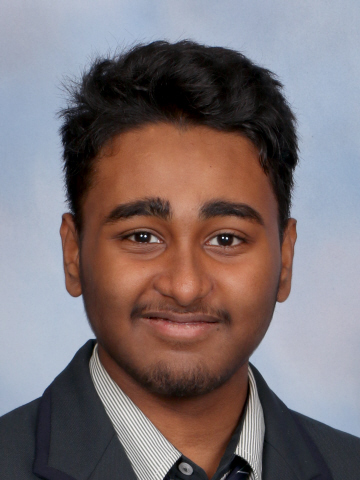
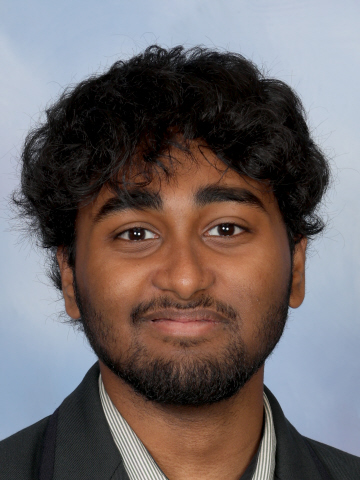
updated info and new project

diff --git a/index.html b/index.html
@@ -52,12 +52,13 @@
                 <div class="info-section">
                     <div class="info-row"><span class="label">Name</span><span class="value">Mahi Mahatab</span></div>
                     <div class="info-row"><span class="label">DOB</span><span class="value">26 Oct 2009</span></div>
-                    <div class="info-row"><span class="label">AGE</span><span class="value">15</span></div>
-                    <div class="info-row"><span class="label">YEAR</span><span class="value">11</span></div>
+                    <div class="info-row"><span class="label">AGE</span><span class="value">17</span></div>
+                    <div class="info-row"><span class="label">YEAR</span><span class="value">12</span></div>
                 </div>
 
                 <div class="info-section contact-section"> 
                     <div class="info-row"><span class="label">Email</span><span class="value"><a href="mailto:md.mahatabmahimn@gmail.com">md.mahatabmahimn@gmail.com</a></span></div>
+                    <div class="info-row"><span class="label">Phone Number</span><span class="value"><a href="tel:+64221701230">022 170 1230</a></span></div>
                     <div class="info-row"><span class="label">GitHub</span><span class="value"><a href="https://github.com/Astral-Viscount" target="_blank" rel="noopener noreferrer">Astral-Viscount</a></span></div>
                 </div>
             </div>
@@ -132,10 +133,10 @@
             </div>
 
             <div class="project-card">
-                <img src="assets/images/website.png" alt="Science and Technology Fair Website 2025" class="project-image">
-                <div class="title">Science and Technology Fair Website 2025</div>
-                <div class="desc">A responsive website redesign for the NIWA Science Fair</div>
-                <div class="link"><a href="https://github.com/Astral-Viscount/Science-and-Technology-Fair-Website-2025" target="_blank" rel="noopener noreferrer">View project ↗</a></div>
+                <img src="assets/images/prefect-voting.png" alt="Prefect Voting" class="project-image">
+                <div class="title">Burnside Prefect Voting System</div>
+                <div class="desc">A Flask web application for running Burnside High School prefect elections.</div>
+                <div class="link"><a href="https://github.com/Astral-Viscount/Prefect-Voting#burnside-prefect-voting-system">View project ↗</a></div>
             </div>
 
 
